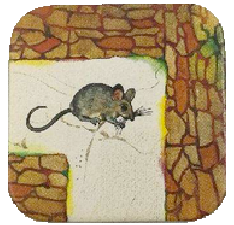
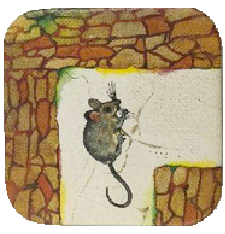
fixed images, algo progress

diff --git a/dasVerrLabyrinth/src/main/java/com/benpaul/dasverrlabyrinth/GameController.java b/dasVerrLabyrinth/src/main/java/com/benpaul/dasverrlabyrinth/GameController.java
@@ -149,10 +149,20 @@ public class GameController implements Initializable {
         for(int x = 0; x < 7; x++){
             for(int y = 0; y < 7; y++){
                 if(!(App.boardTiles[x][y].collectableOnTile)){
-                    System.out.println("no Piece on: " + x + "|" + y);
+                    System.out.println("No Piece on: " + x + "|" + y);
+                    System.out.println("Exit Oben:" + App.boardTiles[x][y].ableToExit[0]);
+                    System.out.println("Exit Rechts:" + App.boardTiles[x][y].ableToExit[1]);
+                    System.out.println("Exit Unten:" + App.boardTiles[x][y].ableToExit[2]);
+                    System.out.println("Exit Links:" + App.boardTiles[x][y].ableToExit[3]);
+                    System.out.println(" ");
                 }
                 else{
                     System.out.println(App.boardTiles[x][y].collectable + " on: " + x + "|" + y);
+                    System.out.println("Exit Oben:" + App.boardTiles[x][y].ableToExit[0]);
+                    System.out.println("Exit Rechts:" + App.boardTiles[x][y].ableToExit[1]);
+                    System.out.println("Exit Unten:" + App.boardTiles[x][y].ableToExit[2]);
+                    System.out.println("Exit Links:" + App.boardTiles[x][y].ableToExit[3]);
+                    System.out.println(" ");
                 }
             }
         }
@@ -326,36 +336,52 @@ public class GameController implements Initializable {
     public void rotateImages(){
         i01.setRotate(App.boardTiles[0][1].location.rotation);
         App.boardTiles[0][1].getLocation().setRotation((int) i01.getRotate());
+        
         i03.setRotate(App.boardTiles[0][3].location.rotation);
         App.boardTiles[0][3].getLocation().setRotation((int) i03.getRotate());
+        
         i05.setRotate(App.boardTiles[0][5].location.rotation);
         App.boardTiles[0][5].getLocation().setRotation((int) i05.getRotate());
+        
         i10.setRotate(App.boardTiles[1][0].location.rotation);
         App.boardTiles[1][0].getLocation().setRotation((int) i10.getRotate());
+        
         i11.setRotate(App.boardTiles[1][1].location.rotation);
         App.boardTiles[1][1].getLocation().setRotation((int) i11.getRotate());
+        
         i12.setRotate(App.boardTiles[1][2].location.rotation);
         App.boardTiles[1][2].getLocation().setRotation((int) i12.getRotate());
+        
         i13.setRotate(App.boardTiles[1][3].location.rotation);
         App.boardTiles[1][3].getLocation().setRotation((int) i13.getRotate());
+        
         i14.setRotate(App.boardTiles[1][4].location.rotation);
         App.boardTiles[1][4].getLocation().setRotation((int) i14.getRotate());
+        
         i15.setRotate(App.boardTiles[1][5].location.rotation);
         App.boardTiles[1][5].getLocation().setRotation((int) i15.getRotate());
+        
         i16.setRotate(App.boardTiles[1][6].location.rotation);
         App.boardTiles[1][6].getLocation().setRotation((int) i16.getRotate());
+        
         i21.setRotate(App.boardTiles[2][1].location.rotation);
         App.boardTiles[2][1].getLocation().setRotation((int) i21.getRotate());
+        
         i23.setRotate(App.boardTiles[2][3].location.rotation);
         App.boardTiles[2][3].getLocation().setRotation((int) i23.getRotate());
+        
         i25.setRotate(App.boardTiles[2][5].location.rotation);
         App.boardTiles[2][5].getLocation().setRotation((int) i25.getRotate());
+        
         i30.setRotate(App.boardTiles[3][0].location.rotation);
         App.boardTiles[3][0].getLocation().setRotation((int) i30.getRotate());
+        
         i31.setRotate(App.boardTiles[3][1].location.rotation);
         App.boardTiles[3][1].getLocation().setRotation((int) i31.getRotate());
+        
         i32.setRotate(App.boardTiles[3][2].location.rotation);
         App.boardTiles[3][2].getLocation().setRotation((int) i32.getRotate());
+        
         i33.setRotate(App.boardTiles[3][3].location.rotation);
         App.boardTiles[3][3].getLocation().setRotation((int) i33.getRotate());
         i34.setRotate(App.boardTiles[3][4].location.rotation);
@@ -411,10 +437,16 @@ public class GameController implements Initializable {
         
         
         //currObsTile.add(new algoTile(0, startTile));
-        
+        System.out.println("Exits of StartTile :");
+        System.out.println(startTile.ableToExit[0]);
+        System.out.println(startTile.ableToExit[1]);
+        System.out.println(startTile.ableToExit[2]);
+        System.out.println(startTile.ableToExit[3]);
+        System.out.println(" ");
         
         for(int i = 0; i < 4; i++){
             if(startTile.ableToExit[i] && checkNextTileInput(startTile, i)){
+                System.out.println("Hit at Exit Nr.: " + i);
                 int o = 5;
                 switch(i){
                     case 0: o = 2; break;
@@ -492,6 +524,7 @@ public class GameController implements Initializable {
         for(int i = 0; i < 4; i++){
             //Wenn die Seite einen Ausgang hat, und das Angrenzende Tile auch, dann true
             if(tile.tile.ableToExit[i] && checkNextTileInput(tile.tile, i)){
+                System.out.println("Hit at Exit Nr.: " + i);
                 int o = 5;
                 switch(i){
                     case 0: o = 2; break;
@@ -571,10 +604,10 @@ public class GameController implements Initializable {
     @FXML
     private void mouseMoved(MouseEvent event) {
        // if(isInDrag){
-            cursorX = event.getX();
-            cursorY = event.getY();
-            System.out.println(cursorX);
-            System.out.println(cursorY);
+            //cursorX = event.getX();
+            //cursorY = event.getY();
+            //System.out.println(cursorX);
+            //System.out.println(cursorY);
         //}
     }
         
@@ -595,9 +628,10 @@ public class GameController implements Initializable {
     
     private void movingPlayer() throws InterruptedException{
         while(isInDrag){
-                player_red.setX(cursorX);
-                player_red.setY(cursorY);
-            }
+            player_red.setX(cursorX);
+            player_red.setY(cursorY);
+            sleep(100);
+        }
     }
     
     

diff --git a/dasVerrLabyrinth/src/main/java/com/benpaul/dasverrlabyrinth/App.java b/dasVerrLabyrinth/src/main/java/com/benpaul/dasverrlabyrinth/App.java
@@ -69,12 +69,12 @@ public class App extends Application {
                         case 3: boardTiles[x][y] = getRandomTile(); boardTiles[x][y].location.xCoor = x; boardTiles[x][y].location.yCoor = y; break;
                         case 4: boardTiles[x][y] = new tileModel(new locationModel(180, x, y, false), true, "bible", false, "t-crossing", null); break;
                         case 5: boardTiles[x][y] = getRandomTile(); boardTiles[x][y].location.xCoor = x; boardTiles[x][y].location.yCoor = y; break;
-                        case 6: boardTiles[x][y] = new tileModel(new locationModel(90, x, y, false), false, null, false, "turn", null); break;//oben rechts
+                        case 6: boardTiles[x][y] = new tileModel(new locationModel(270, x, y, false), false, null, false, "turn", null); break;//Unten links
                     }
                 }
                 if(y == 2){
                     switch(x){
-                        case 0: boardTiles[x][y] = new tileModel(new locationModel(270, x, y, false), true, "skull", false, "t-crossing", null); break;
+                        case 0: boardTiles[x][y] = new tileModel(new locationModel(180, x, y, false), true, "skull", false, "t-crossing", null); break;
                         case 1: boardTiles[x][y] = getRandomTile(); boardTiles[x][y].location.xCoor = x; boardTiles[x][y].location.yCoor = y; break;
                         case 2: boardTiles[x][y] = new tileModel(new locationModel(90, x, y, false), true, "keys", false, "t-crossing", null); break;
                         case 3: boardTiles[x][y] = getRandomTile(); boardTiles[x][y].location.xCoor = x; boardTiles[x][y].location.yCoor = y; break;
@@ -85,7 +85,7 @@ public class App extends Application {
                 }
                 if(y == 4){
                     switch(x){
-                        case 0: boardTiles[x][y] = new tileModel(new locationModel(270, x, y, false), true, "sword", false, "t-crossing", null); break;
+                        case 0: boardTiles[x][y] = new tileModel(new locationModel(180, x, y, false), true, "sword", false, "t-crossing", null); break;
                         case 1: boardTiles[x][y] = getRandomTile(); boardTiles[x][y].location.xCoor = x; boardTiles[x][y].location.yCoor = y; break;
                         case 2: boardTiles[x][y] = new tileModel(new locationModel(270, x, y, false), true, "emerald", false, "t-crossing", null); break;
                         case 3: boardTiles[x][y] = getRandomTile(); boardTiles[x][y].location.xCoor = x; boardTiles[x][y].location.yCoor = y; break;
@@ -96,7 +96,7 @@ public class App extends Application {
                 }
                 if(y == 6){
                     switch(x){
-                        case 0: boardTiles[x][y] = new tileModel(new locationModel(270, x, y, false), false, null, false, "turn", null); break;//unten links
+                        case 0: boardTiles[x][y] = new tileModel(new locationModel(90, x, y, false), false, null, false, "turn", null); break;//Oben rechts
                         case 1: boardTiles[x][y] = getRandomTile(); boardTiles[x][y].location.xCoor = x; boardTiles[x][y].location.yCoor = y; break;
                         case 2: boardTiles[x][y] = new tileModel(new locationModel(0, x, y, false), true, "helmet", false, "t-crossing", null); break;
                         case 3: boardTiles[x][y] = getRandomTile(); boardTiles[x][y].location.xCoor = x; boardTiles[x][y].location.yCoor = y; break;
